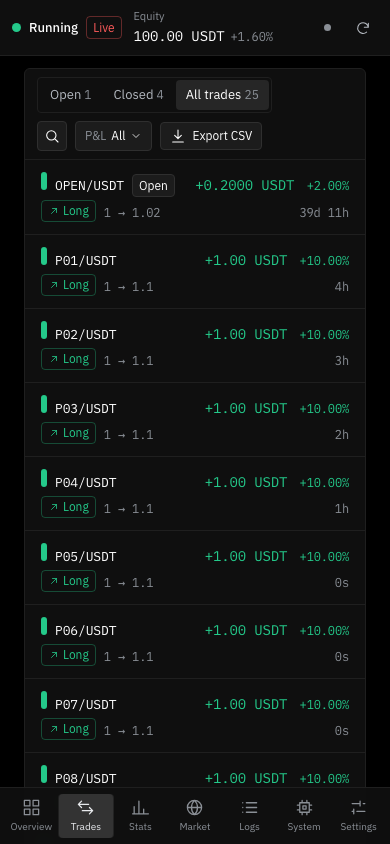
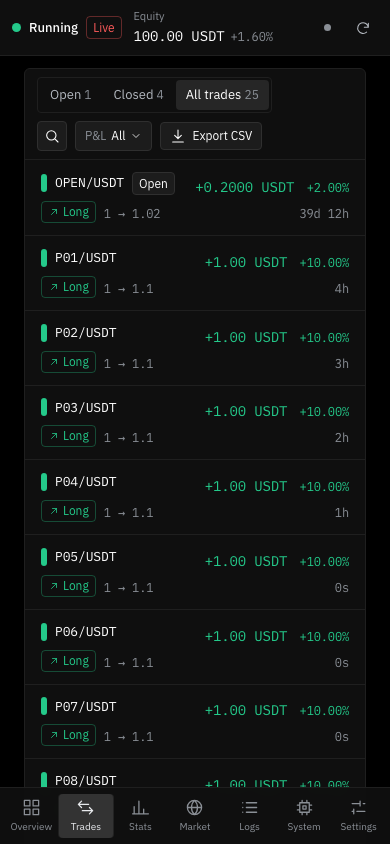
💄 style(trades): 手机卡片的方向色条与交易对文字对齐
颜色条原来是 .card__row 的直接子元素，而那一行是 align-items: baseline（空 span 的
基线是它的底边），18px 的条整个沉在文字外面。改用桌面表格同一个 .table__pair 包装
（align-items: center）：实测色条中心与交易对文字中心差 0.3px。

同时把交易页每页条数接到设置，并重拍手机截图。

diff --git a/src/views/TradesView.vue b/src/views/TradesView.vue
@@ -14,6 +14,7 @@ import { downloadCsv } from '@/lib/csv'
 import { isStandalone } from '@/lib/navigation'
 import type { Trade } from '@/lib/types'
 import { useBotStore } from '@/stores/bot'
+import { useSettingsStore } from '@/stores/settings'
 import { useSegBlock } from '@/composables/useSegBlock'
 
 type Filter = 'open' | 'closed' | 'all'
@@ -22,6 +23,7 @@ type SortKey = 'open_timestamp' | 'pair' | 'profit_abs' | 'duration' | 'stake_am
 const { t } = useI18n()
 const format = useFormat()
 const bot = useBotStore()
+const settings = useSettingsStore()
 const route = useRoute()
 const router = useRouter()
 
@@ -37,8 +39,8 @@ const { blockStyle: filterBlockStyle, blockReady: filterBlockReady } = useSegBlo
   filterSeg,
   () => filter.value,
 )
-/** Rows per page; paging happens in the browser over everything already loaded. */
-const PAGE_SIZE = 20
+/** Paging happens in the browser over everything already loaded; the size is a setting. */
+const pageSize = computed(() => settings.tradesPageSize)
 const page = ref(1)
 
 // The overview links here with ?filter=open|closed; keep the query in step with the tab.
@@ -133,9 +135,9 @@ const filterStatus = computed(() =>
 const openCount = computed(() => bot.openTrades.length)
 const closedCount = computed(() => bot.profit?.closed_trade_count ?? bot.closedTrades.length)
 const allCount = computed(() => allTrades.value.length)
-const totalPages = computed(() => Math.max(1, Math.ceil(rows.value.length / PAGE_SIZE)))
+const totalPages = computed(() => Math.max(1, Math.ceil(rows.value.length / pageSize.value)))
 const pagedRows = computed(() =>
-  rows.value.slice((page.value - 1) * PAGE_SIZE, page.value * PAGE_SIZE),
+  rows.value.slice((page.value - 1) * pageSize.value, page.value * pageSize.value),
 )
 
 // Any change to the query or ordering restarts from the first page.
@@ -426,12 +428,17 @@ onMounted(() => {
                 @click="openTrade(trade)"
               >
                 <div class="card__row">
-                  <span
-                    class="table__side"
-                    :class="trade.is_short ? 'table__side--short' : 'table__side--long'"
-                  />
-                  <span class="num card__pair">{{ trade.pair }}</span>
-                  <span v-if="trade.is_open" class="chip chip--accent">{{ t('trades.open') }}</span>
+                  <!-- Same wrapper as the desktop table: it centres the bar on the pair text. -->
+                  <div class="table__pair">
+                    <span
+                      class="table__side"
+                      :class="trade.is_short ? 'table__side--short' : 'table__side--long'"
+                    />
+                    <span class="num card__pair">{{ trade.pair }}</span>
+                    <span v-if="trade.is_open" class="chip chip--accent">{{
+                      t('trades.open')
+                    }}</span>
+                  </div>
                   <span class="spacer" />
                   <span
                     class="num card__pnl"
